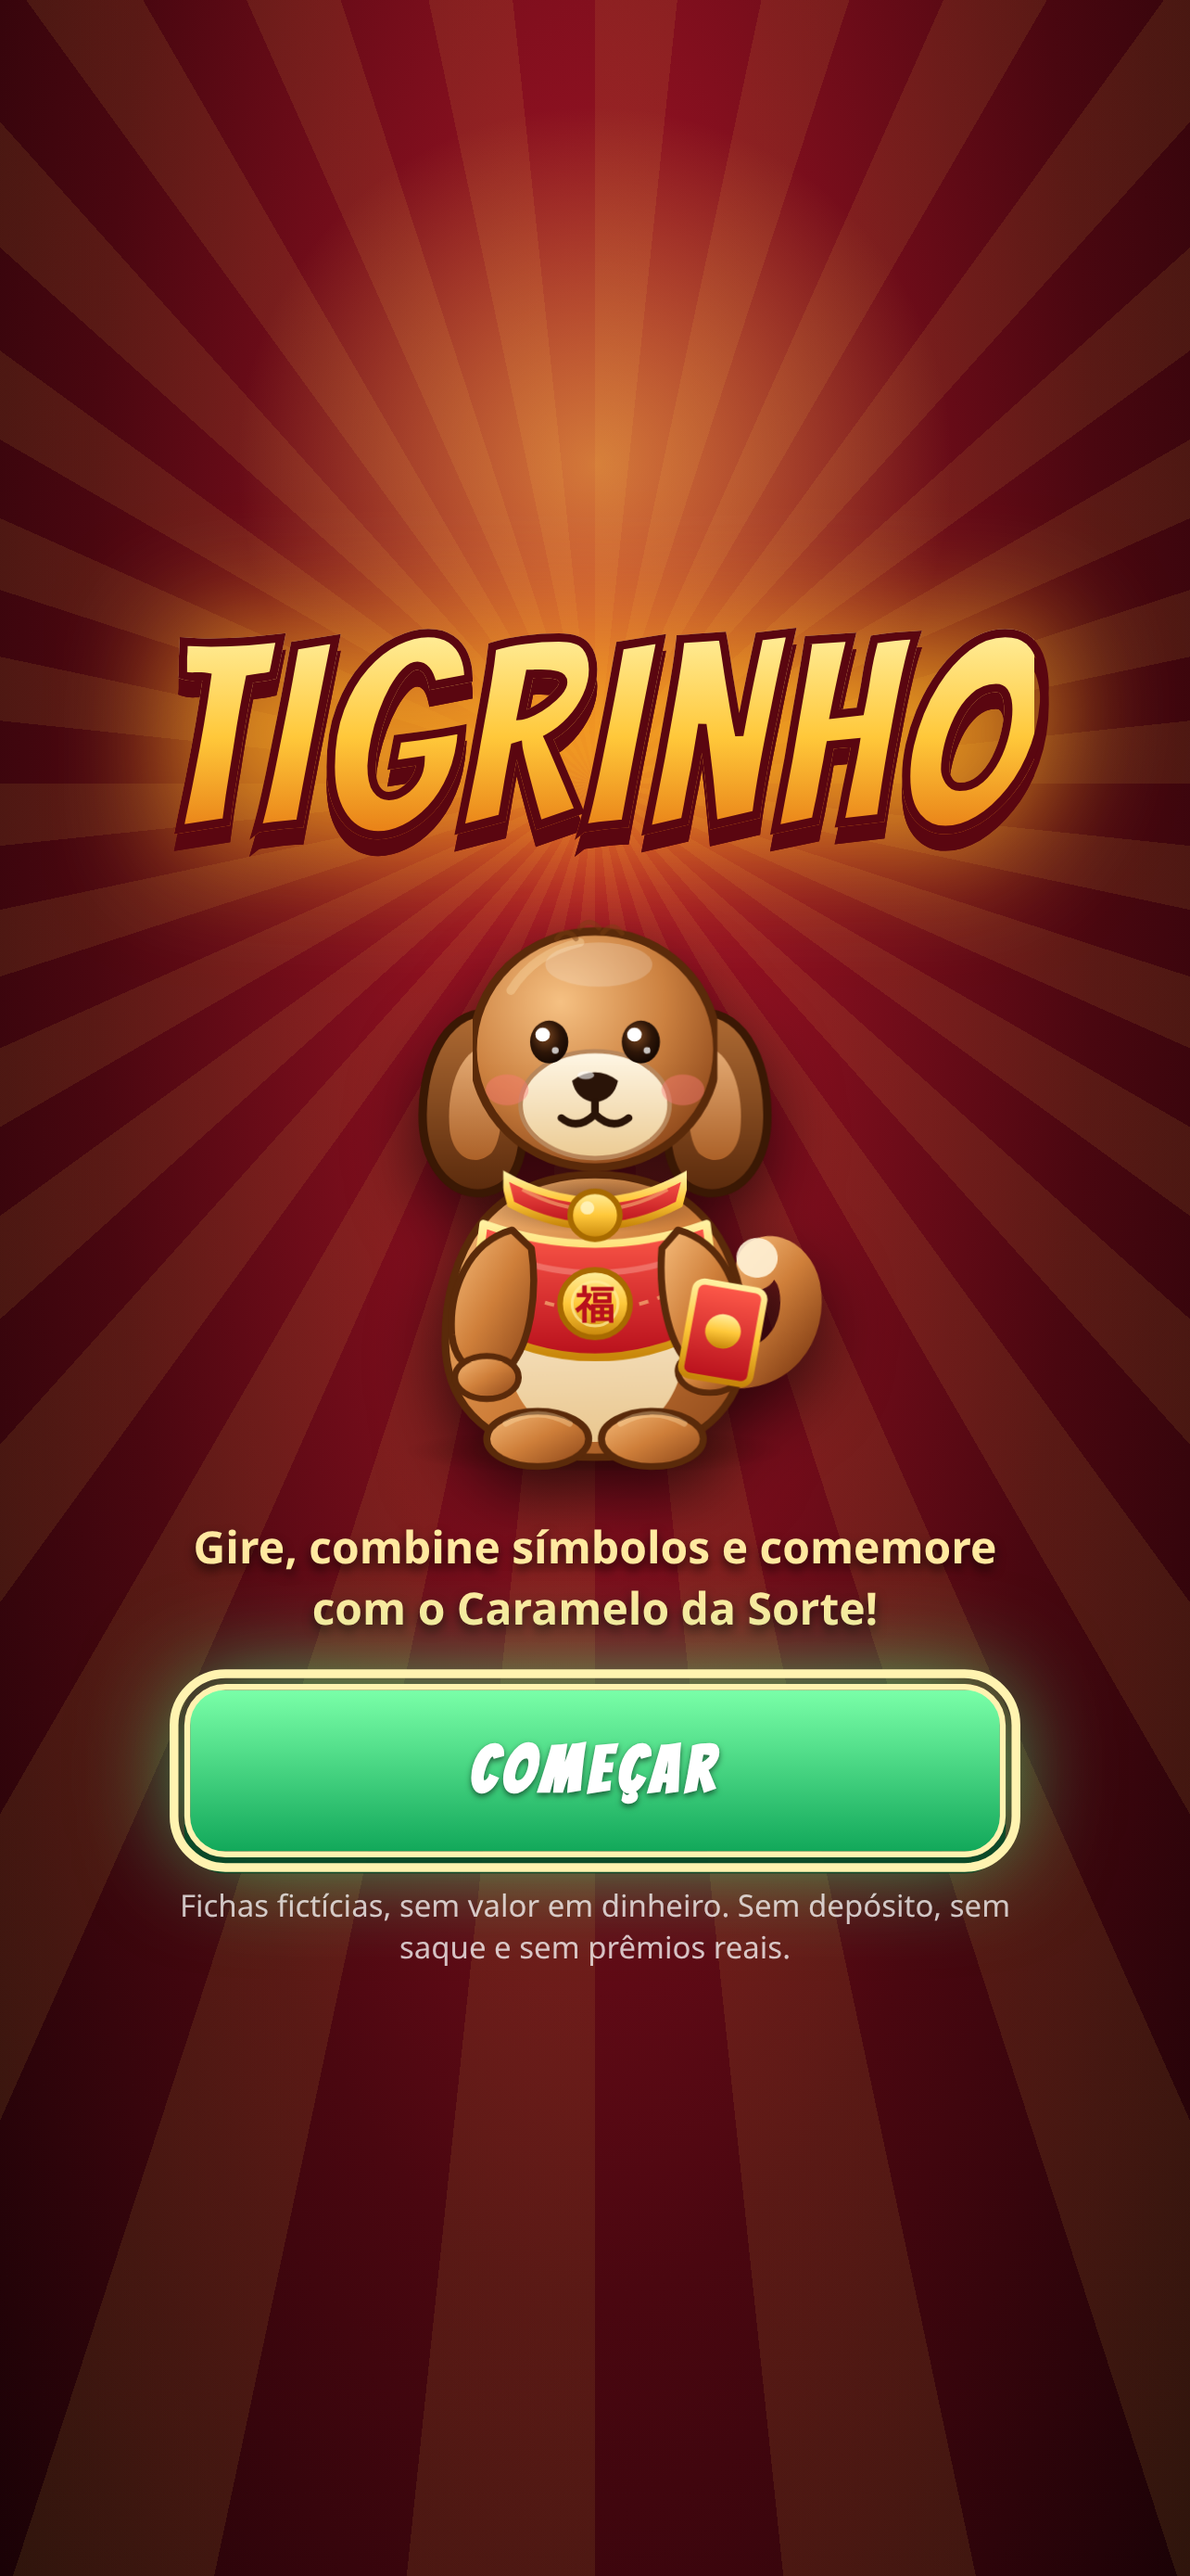
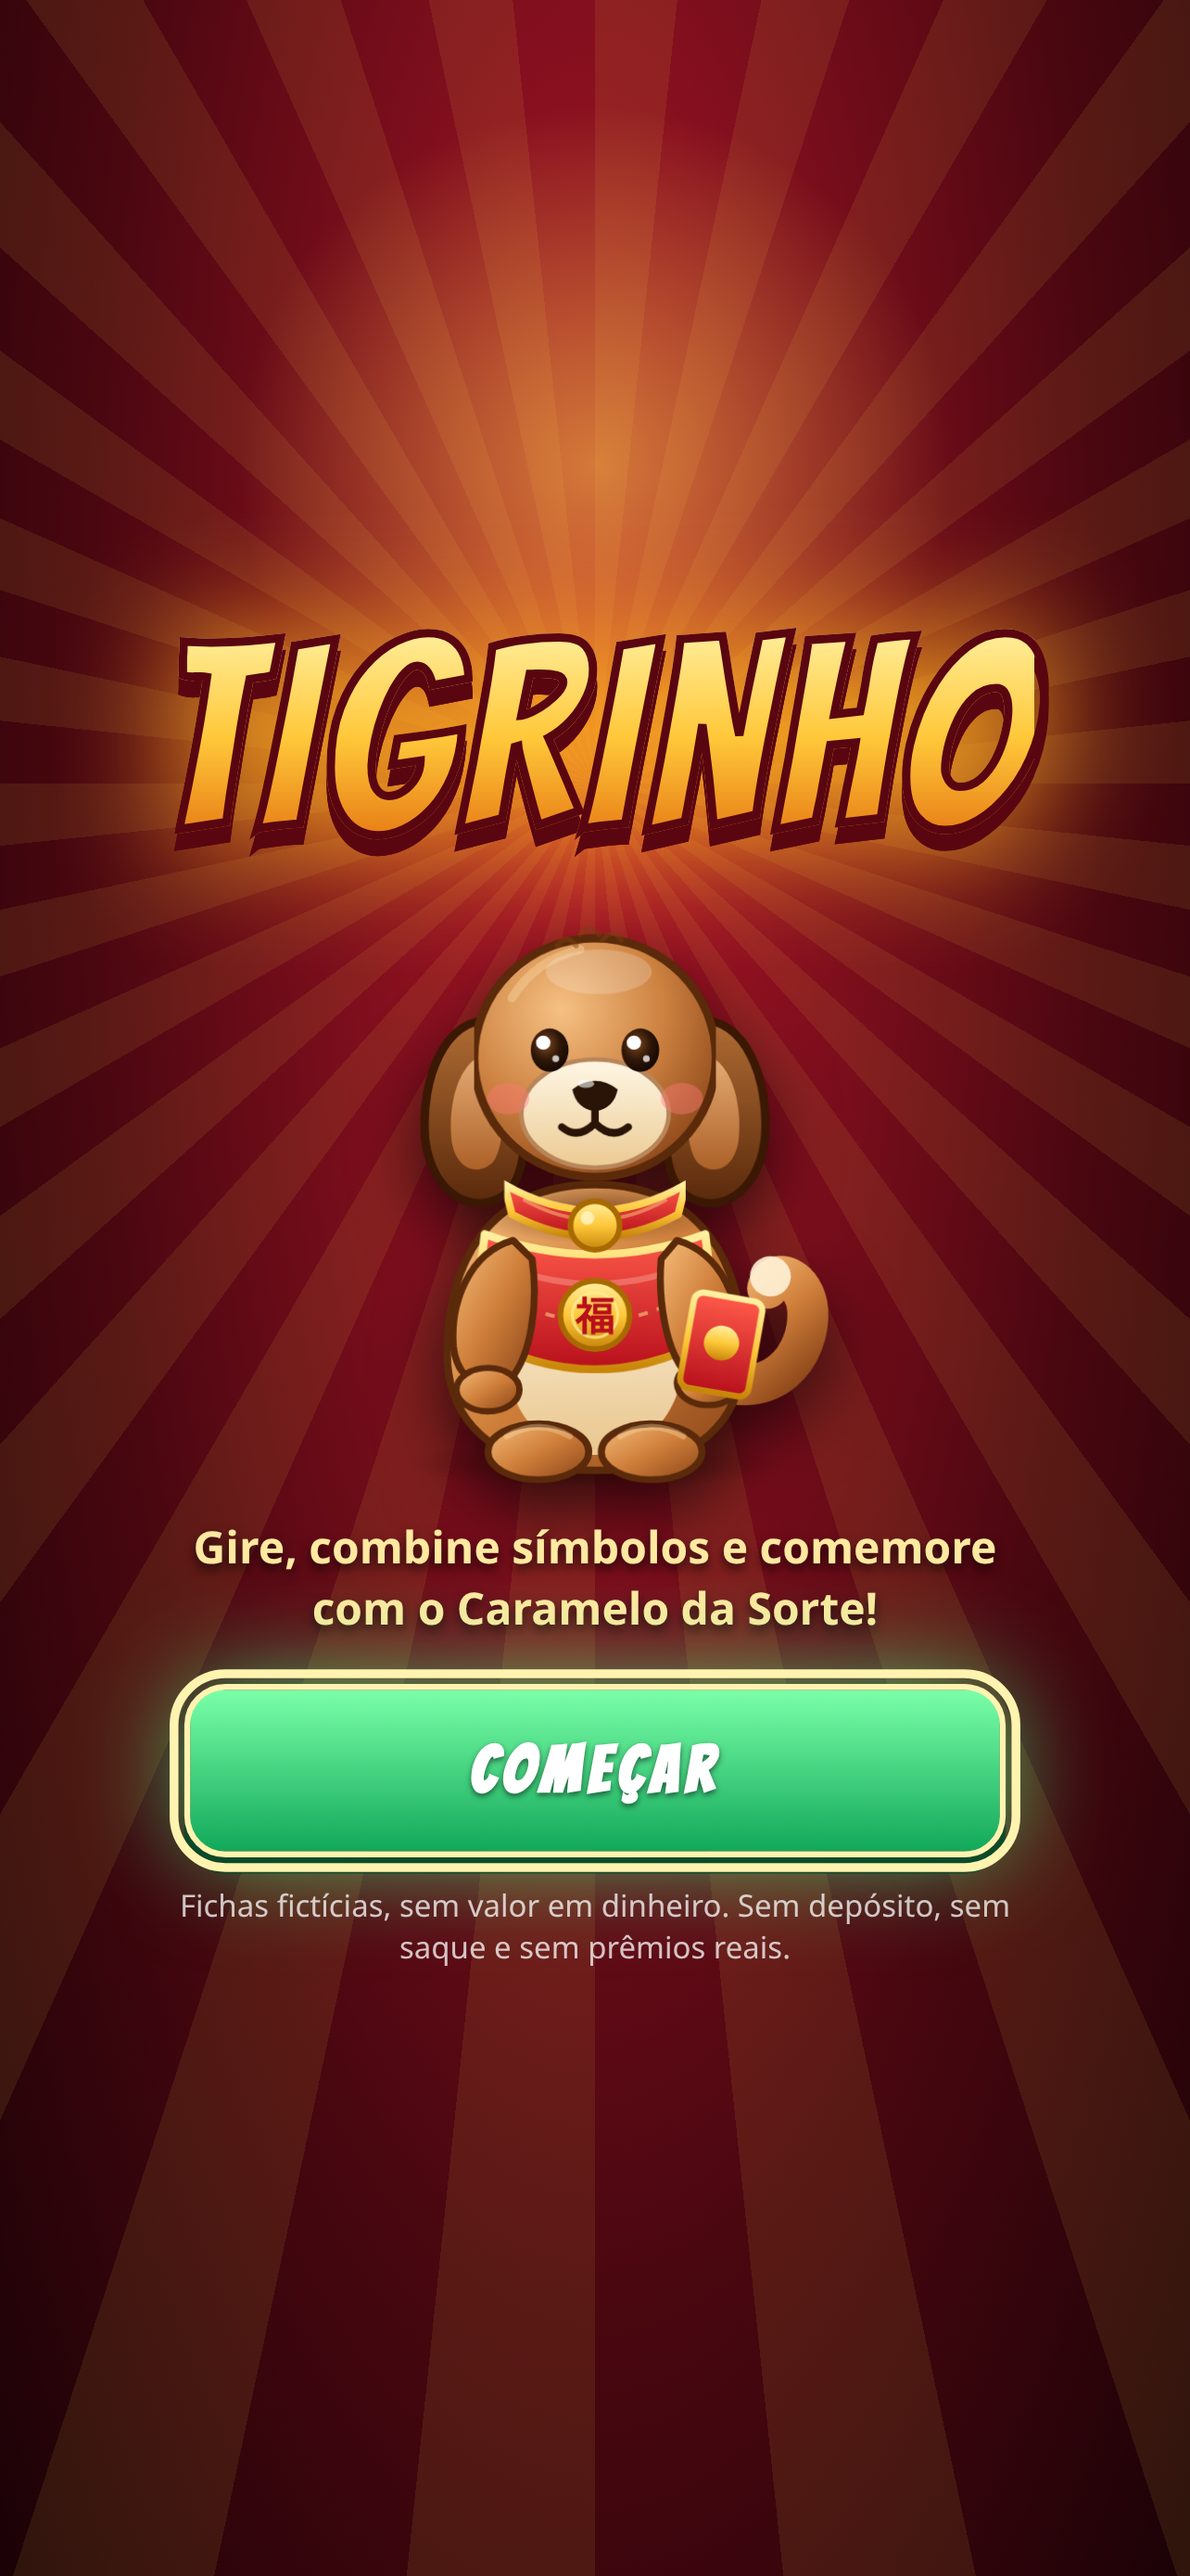
Tela alta em retrato: rolos mais altos e mascote maior sem tapar o título
- Em telas com 840 px de altura ou mais, a célula dos rolos fica 22% mais alta que larga (sem aumentar a largura).
- Mascote passa a até 170 px de altura nessas telas; a faixa do título é recuada à esquerda para não ser coberta.
- Folga entre a faixa de vitória e os controles cai de 96 para 52 px no aparelho de 6,5".
- Teste de UI em 390×844 confere célula mais alta que larga e ausência de sobreposição.
- Teste de tutorial espera o gancho de teste antes do clique (falha intermitente com a suíte em paralelo).
- Capturas da loja regeneradas.

Changed region(s): [[0.3427, 0.3405, 0.7165, 0.5882]]

diff --git a/jogo/style.css b/jogo/style.css
@@ -1,4 +1,4 @@
-:root{--gold:#ffd24a;--red:#c8101e;--cell:min(28vw,18vh,112px);--bg1:#7a0c14;--bg2:#2a0408;--jade:#12805a}
+:root{--gold:#ffd24a;--red:#c8101e;--cell:min(28vw,18vh,112px);--tall:1;--cell-h:calc(var(--cell)*var(--tall));--bg1:#7a0c14;--bg2:#2a0408;--jade:#12805a}
 *{box-sizing:border-box;-webkit-tap-highlight-color:transparent;user-select:none;-webkit-user-select:none;-webkit-touch-callout:none}
 html,body{margin:0;height:100%;min-height:100dvh;background:#1a0206;color:#fff;font-family:"Trebuchet MS",system-ui,sans-serif;overflow:hidden;touch-action:manipulation;overscroll-behavior:none}
 button:focus-visible{outline:3px solid #fff3b0;outline-offset:2px}
@@ -54,6 +54,9 @@ button:focus-visible{outline:3px solid #fff3b0;outline-offset:2px}
 
 .machine{position:relative;width:100%;max-width:400px}
 @media (orientation:portrait) and (max-width:699px){:root{--cell:min(25vw,16vh,104px)}.stage>.machine{flex-shrink:0}}
+/* Telas altas em retrato: a célula fica um pouco mais alta que larga, para os rolos ocuparem a folga sem ficar mais largos. */
+/* Mascote maior e faixa do título recuada à esquerda, para o Caramelo não cobrir o título. */
+@media (orientation:portrait) and (min-height:840px){:root{--tall:1.22}.mrow{height:min(26vh,170px)}.machine-crown{padding-left:72px}}
 .frame{--rim:10px;--top:39px;position:relative;padding:39px 10px 10px;border-radius:22px;background:linear-gradient(145deg,#ffe27a,#c8860a 50%,#ffd24a);box-shadow:0 0 30px #ffb42055,0 10px 24px #000a,inset 0 0 0 3px #7a4a00}
 .machine-crown{position:absolute;left:50%;top:5px;transform:translateX(-50%);width:min(82%,290px);height:29px;display:flex;align-items:center;justify-content:center;gap:10px;border:1px solid #fff1a1;border-radius:999px;background:linear-gradient(180deg,#c91c30,#730817);box-shadow:inset 0 1px 0 #fff8,inset 0 -3px 0 #4b0710,0 2px 5px #592600;color:#ffe89a;white-space:nowrap}
 .machine-crown b{font:18px/1 "Bangers",Impact,sans-serif;letter-spacing:1.2px;text-shadow:0 1px 0 #5c080f}
@@ -61,9 +64,9 @@ button:focus-visible{outline:3px solid #fff3b0;outline-offset:2px}
 .frame.shake{animation:fshake .5s}
 @keyframes fshake{20%{transform:translate(-5px,3px)}40%{transform:translate(5px,-3px)}60%{transform:translate(-4px,-2px)}80%{transform:translate(4px,2px)}}
 .reels{display:flex;gap:6px;background:#f7e2b0;border-radius:14px;padding:5px;box-shadow:inset 0 4px 12px #0007;justify-content:center}
-.reel{position:relative;width:var(--cell);height:calc(var(--cell)*3);overflow:hidden;border-radius:8px;background:linear-gradient(#fff3d0,#f1d390 50%,#fff3d0);box-shadow:inset 0 0 8px #8a5a0040}
+.reel{position:relative;width:var(--cell);height:calc(var(--cell-h)*3);overflow:hidden;border-radius:8px;background:linear-gradient(#fff3d0,#f1d390 50%,#fff3d0);box-shadow:inset 0 0 8px #8a5a0040}
 .strip{position:absolute;left:0;right:0;top:0;will-change:transform}
-.cell{height:var(--cell);display:flex;align-items:center;justify-content:center}
+.cell{height:var(--cell-h);display:flex;align-items:center;justify-content:center}
 .cell svg{width:86%;height:86%;filter:drop-shadow(0 3px 2px #0005)}
 /* Vitória: pulse de escala + brilho, espelha GameSymbol.startWinAnimation do slot-game
    (scale 1±0.1 + frame alpha 0.7±0.3, auto-stop em JS após 2s). */
@@ -79,7 +82,7 @@ button:focus-visible{outline:3px solid #fff3b0;outline-offset:2px}
 .reel.anticipate{box-shadow:0 0 0 3px #ff4a2a,0 0 24px #ff4a2a;animation:antic .25s infinite,tremor .14s linear infinite}
 @keyframes tremor{0%,100%{transform:translateX(0)}25%{transform:translateX(-1.5px)}75%{transform:translateX(1.5px)}}
 @keyframes antic{50%{box-shadow:0 0 0 3px #ffd24a,0 0 30px #ffd24a}}
-.lock{position:absolute;left:0;right:0;height:var(--cell);display:flex;align-items:center;justify-content:center;z-index:3;background:radial-gradient(circle,#ffd24acc,#ff8a1a55);animation:lockglow .7s ease-in-out infinite;pointer-events:none}
+.lock{position:absolute;left:0;right:0;height:var(--cell-h);display:flex;align-items:center;justify-content:center;z-index:3;background:radial-gradient(circle,#ffd24acc,#ff8a1a55);animation:lockglow .7s ease-in-out infinite;pointer-events:none}
 .lock svg{width:86%;height:86%}
 @keyframes lockglow{50%{filter:brightness(1.35)}}
 .lock--wild{border:2px solid #fff0a0;border-radius:10px;box-shadow:inset 0 0 0 2px #c8860a,inset 0 0 20px #fff4a8,0 0 16px #ffd24a;overflow:hidden}

diff --git a/tests/ui/game.spec.js b/tests/ui/game.spec.js
@@ -675,6 +675,7 @@ test('coleção mostra o progresso dos itens bloqueados', async ({ page }) => {
 
 test('depois do tutorial, uma dica lembra que o ritmo é de quem joga', async ({ page }) => {
   await page.goto('/index.html?test=1&tutorial=1');
+  await page.waitForFunction(() => !!window.__tigrinho); // o gancho só existe depois da inicialização; sem isso o clique pode chegar antes do botão ter ação
   await page.evaluate(() => document.getElementById('start').click());
   await page.locator('#tutSkip').click();
   await expect(page.locator('#toast')).toHaveText(/Você decide o ritmo/, { timeout: 5000 });
@@ -799,6 +800,24 @@ test('paisagem curta: controles têm 44 px ou mais e "Pular" tem alvo suficiente
   await page.evaluate(() => { document.getElementById('skipWin').hidden = false; });
   const skip = await page.locator('#skipWin').boundingBox();
   expect(Math.min(skip.width, skip.height)).toBeGreaterThanOrEqual(24);
+});
+
+// --- Tela alta em retrato: rolos mais altos que largos e o mascote não cobre o título do aro ---
+test.describe('tela alta em retrato', () => {
+  test.use({ viewport: { width: 390, height: 844 } });
+  test('rolos ficam mais altos que largos e o mascote não cobre o título', async ({ page }, info) => {
+    test.skip(info.project.name !== 'iphone-retrato', 'o perfil de retrato define a orientação');
+    await startGame(page);
+    await clearOverlays(page);
+    const cell = await page.locator('.cell').first().boundingBox();
+    expect(cell.height).toBeGreaterThan(cell.width);
+    const overlap = await page.evaluate(() => {
+      const m = document.getElementById('mascot').getBoundingClientRect();
+      const t = document.querySelector('.machine-crown b').getBoundingClientRect();
+      return Math.max(0, Math.min(m.right, t.right) - Math.max(m.left, t.left));
+    });
+    expect(overlap).toBe(0);
+  });
 });
 
 // --- Mascote: tamanho legível na tela de jogo (retrato); a linha dos rolos não pode espremê-lo ---

diff --git a/jogo/reels.js b/jogo/reels.js
@@ -143,7 +143,7 @@
       })();
     }
 
-    function setLocks(locked, cellVar = 'var(--cell)') {
+    function setLocks(locked, cellVar = 'var(--cell-h)') {
       reels.forEach((r) => r.el.querySelectorAll('.lock').forEach((l) => l.remove()));
       locked.forEach((k) => {
         const [c, r] = k.split(',').map(Number);

diff --git a/CHANGELOG.md b/CHANGELOG.md
@@ -47,10 +47,12 @@ Formato simples por versão. Datas em ISO. Fichas são fictícias, sem valor em 
 - Paisagem curta: os sete controles (menu, som, aposta −/+, GIRAR, AUTO e turbo) têm 44 px ou mais; antes, seis ficavam entre 34 e 36 px. Para caber, a célula dos rolos diminui um pouco (14,5 vh, antes 16 vh). Compartilhar continua com 34 px visíveis e área de toque de 46 px, porque um botão maior mudaria a altura da faixa no momento da vitória. Teste de UI na paisagem.
 - Teste visual da máquina esconde os controles, que na paisagem de teste chegam ao aro. Linha de base da paisagem regravada.
 - Capturas da loja (Q4-11) regeneradas do estado atual, nas medidas 6,5" (1284×2778) e 5,5" (1242×2208), por `tests/capturas.js`, que também gera a folha de poses do Caramelo em `docs/prints/14-poses-mascote.png` (Q2-03, aguarda aprovação). Teste confere as medidas.
+- Telas altas em retrato (a partir de 840 px de altura): a célula dos rolos fica 22% mais alta que larga, sem aumentar a largura, e o mascote passa a até 170 px de altura. A faixa do título é recuada à esquerda para o Caramelo não cobri-la. A folga entre a faixa "Última vitória" e os controles caiu de 96 para 52 px no aparelho de 6,5". Telas normais não mudam. Teste de UI em 390×844.
+- Teste de tutorial espera o gancho de teste antes do clique em "Começar", o que removeu uma falha intermitente com a suíte em paralelo.
 - Experiência (plano em `docs/plano-experiencia.md`): cartão de vitória para compartilhar (PNG com o Caramelo, sem valor em dinheiro); resumo de sessão ("Minha sessão") com avaliação 😊 😐 🙁; menu em três grupos; dica após o tutorial; reações do mascote (surpresa no respin, orgulho ao subir de nível).
 - Rotinas: bônus diário com folga de um dia (a sequência não zera); missões de descoberta (usar o turbo, mudar a aposta); coleção mostra progresso (X/Y); pausa obrigatória mostra as rodadas da sessão.
 - Revisão de princípios: derrota sem enquadramento de quase-vitória ("Quase!" saiu das falas).
-- Qualidade: 65 checks unitários e 143 testes de interface passando (3 pulados: os testes de AUTO, de tamanho do mascote e de alvos da paisagem só rodam no perfil certo); testes de alvo de toque (24 px) e de nome acessível em todo botão visível.
+- Qualidade: 65 checks unitários e 144 testes de interface passando (4 pulados: os testes de AUTO, de tamanho do mascote, de alvos da paisagem e de tela alta só rodam no perfil certo); testes de alvo de toque (24 px) e de nome acessível em todo botão visível.
 - Redesenho do Caramelo: orelhas com volume e sombra interna, cabeça com brilho e focinho com reflexo, corpo em pera com barriga, colete com costura, patas sem marcas de rosto, cauda com ponta de pelo, sino liso na coleira (um só medalhão com 福) e piscar suave. O mesmo corpo vale para o mascote do jogo e para os modais; a cauda foi recuada para não ser cortada pelo balanço.
 - Cabeçalho decorativo da moldura e ícone vetorial local + PNG 512 para PWA; ligados ao manifesto, favicon e apple-touch.
 - Prints da moldura/HUD em retrato e paisagem, linhas vencedoras sequenciais e ícone PWA em `docs/prints/03`, `05–06`, `11` e `13`.
